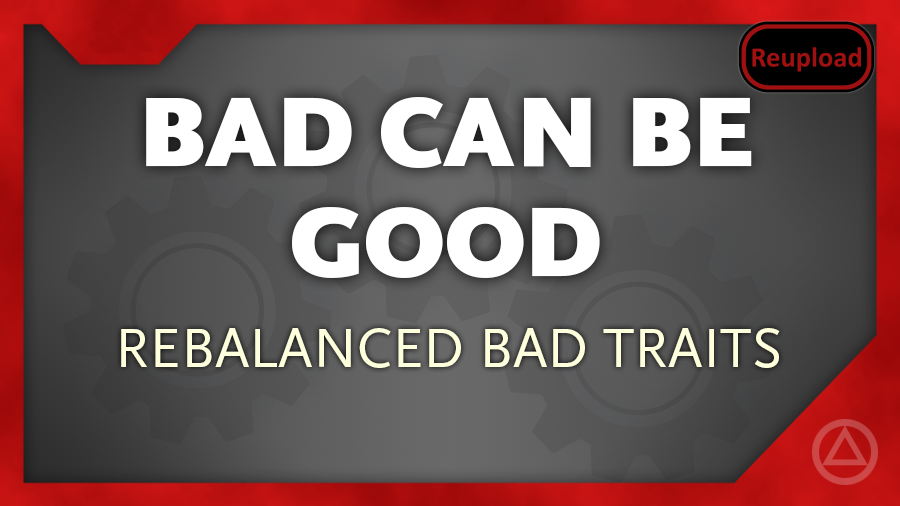
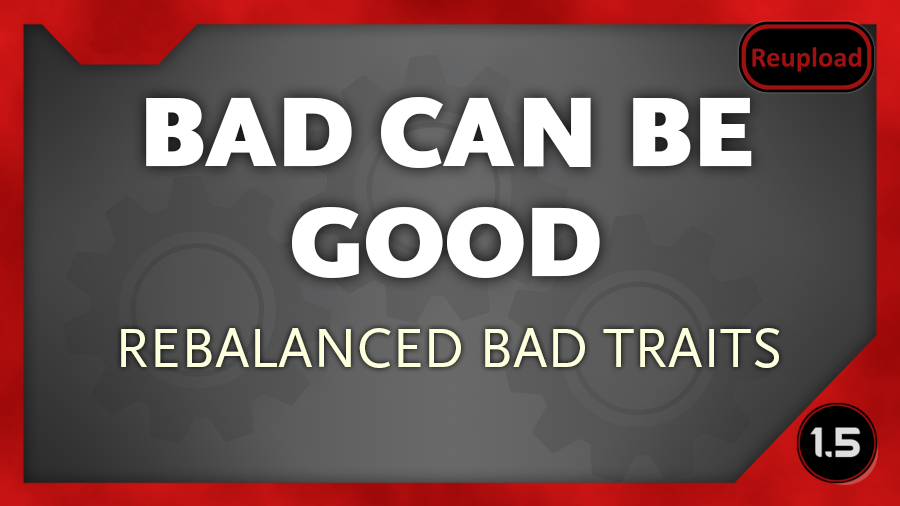
Updated for 1.5

Changed region(s): [[0.8711, 0.8004, 0.9956, 0.9783]]

diff --git a/README.md b/README.md
@@ -75,32 +75,6 @@ These traits have been rebalanced so the downsides are matched up with bonuses t
 **▶ Slow Learner:** +10% to global work speed, +25% to general labor speed
 *Though they are slow to pickup on new tricks, these people use what tricks they know in impressive ways.*
 
-
-![Image](https://i.imgur.com/2Zpv4mk.png)
-
-
-![Image](https://i.imgur.com/NpuFU7v.png)
-
-
-**Github:** https://github.com/Neceros/BadCanBeGood
-
-![Image](https://i.imgur.com/s3KRLlu.gif)
-
-
-**Get help, Ask questions, Give suggestions:**
-https://discord.gg/AvV7DT5]![Image](https://i.imgur.com/lkEpF5w.png)
-
-
-**My mods:**
-https://steamcommunity.com/id/TheBigN/myworkshopfiles/?appid=294100&amp;p=1&amp;numperpage=30]![Image](https://i.imgur.com/MD0xY84.png)
-
-
-**Like these mods? Support me so I make more:**
-https://www.patreon.com/user?u=2987961]![Image](https://i.imgur.com/9z9LVrz.png)
-
-https://ko-fi.com/Q5Q019Y8A]![Image](https://i.imgur.com/EHcTTRx.png)
-
-
 *MIT License; Copyright (c) 2020 Billy Barnes*
 ![Image](https://i.imgur.com/PwoNOj4.png)
 
@@ -108,9 +82,13 @@ https://ko-fi.com/Q5Q019Y8A]![Image](https://i.imgur.com/EHcTTRx.png)
 
 -  See if the the error persists if you just have this mod and its requirements active.
 -  If not, try adding your other mods until it happens again.
--  Post your error-log using https://steamcommunity.com/workshop/filedetails/?id=818773962]HugsLib and command Ctrl+F12
+-  Post your error-log using https://steamcommunity.com/workshop/filedetails/?id=818773962]HugsLib or the standalone https://steamcommunity.com/sharedfiles/filedetails/?id=2873415404]Uploader and command Ctrl+F12
 -  For best support, please use the Discord-channel for error-reporting.
 -  Do not report errors by making a discussion-thread, I get no notification of that.
 -  If you have the solution for a problem, please post it to the GitHub repository.
+-  Use https://github.com/RimSort/RimSort/releases/latest]RimSort to sort your mods
 
+
+
+https://steamcommunity.com/sharedfiles/filedetails/changelog/2889440091]![Image](https://img.shields.io/github/v/release/emipa606/BadCanBeGood?label=latest%20version&style=plastic&color=9f1111&labelColor=black)
 
